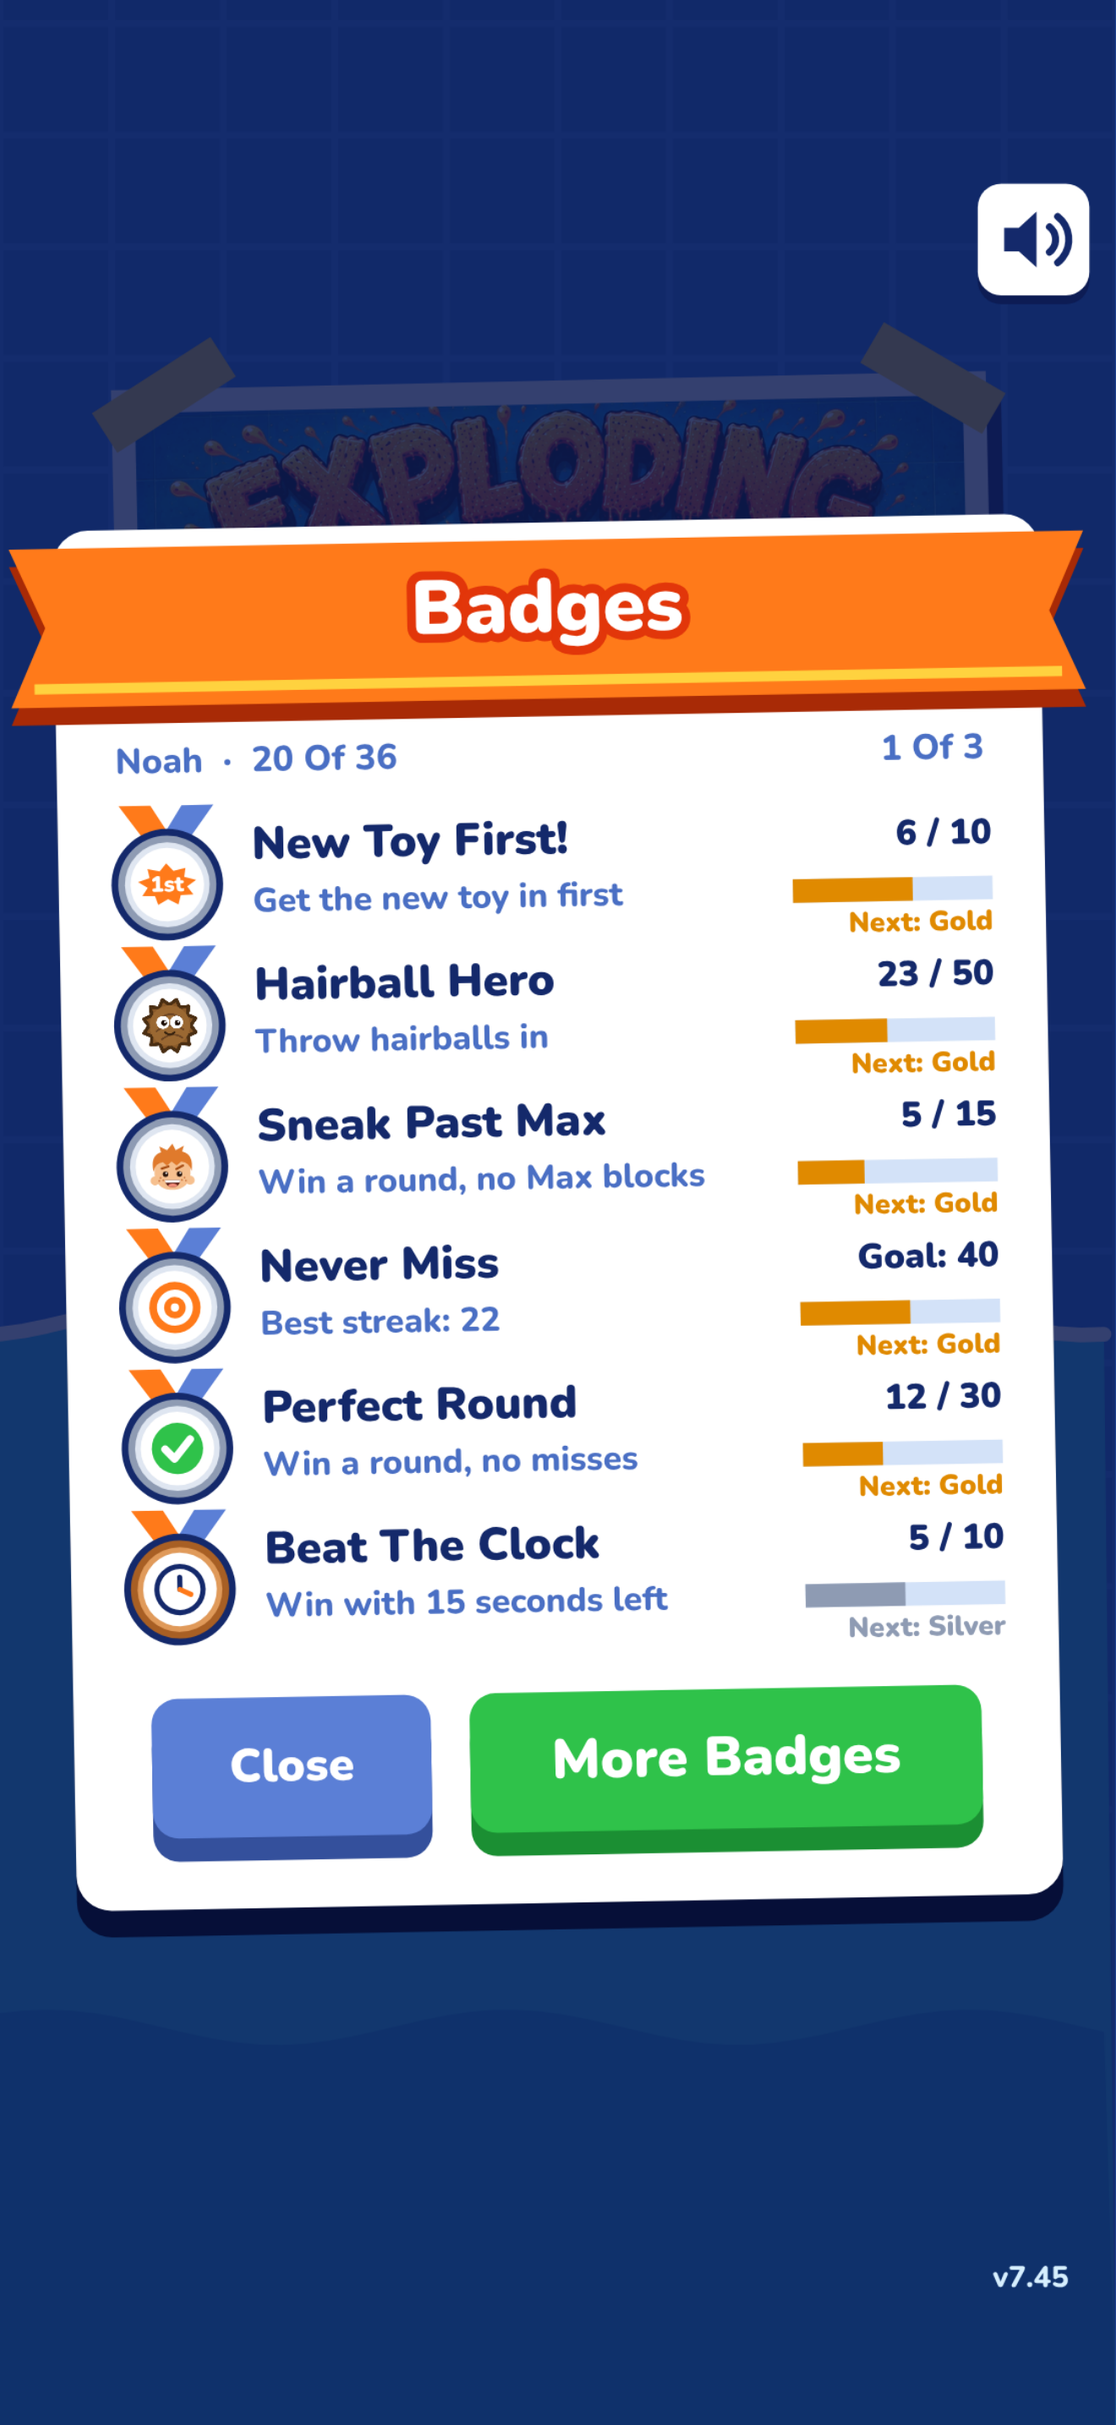
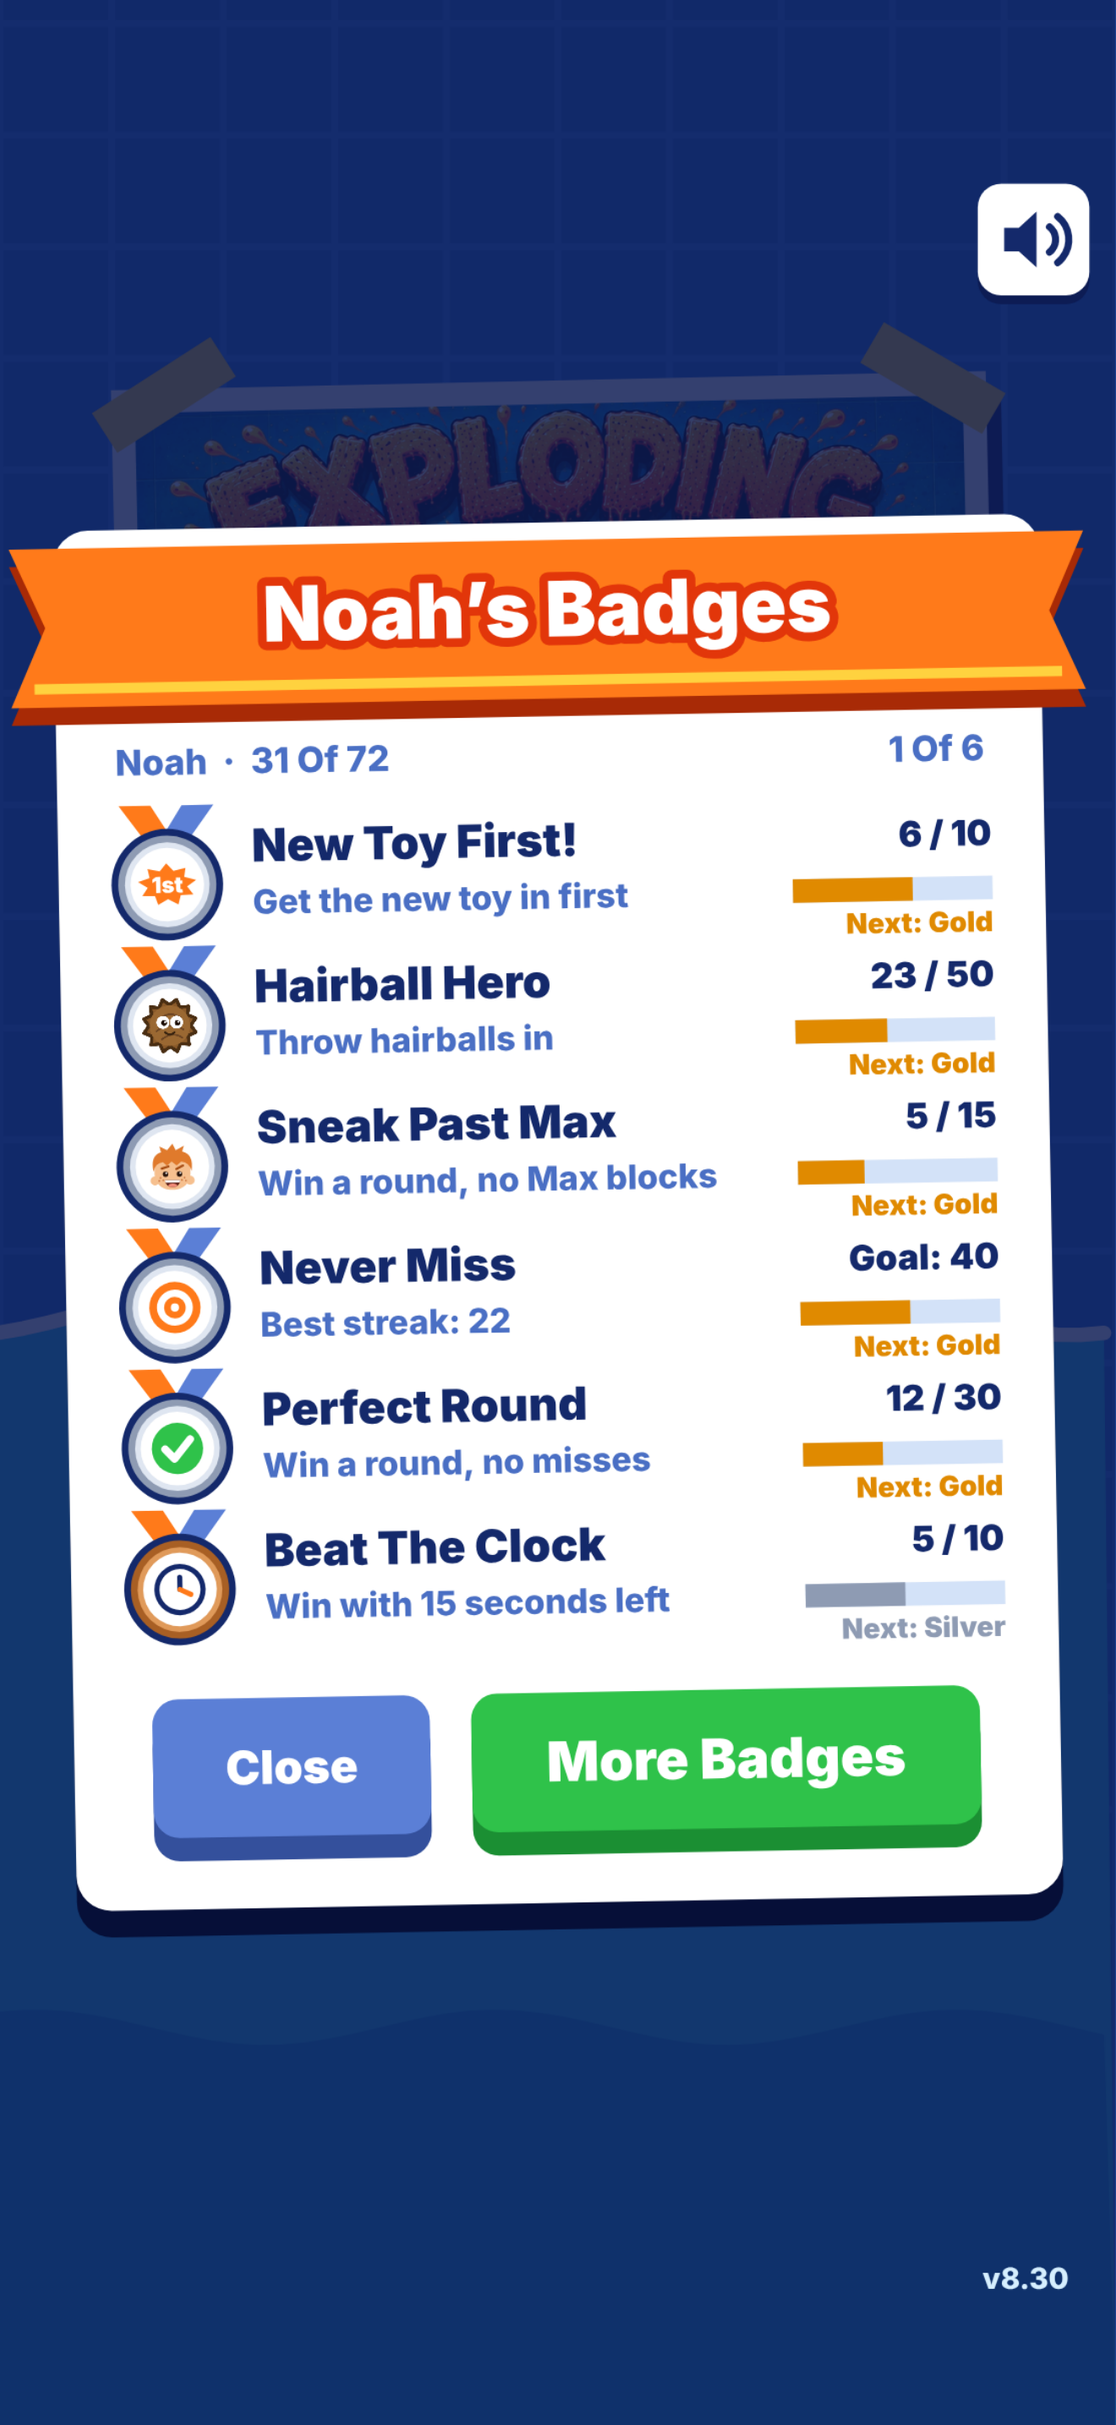
App Store 2.0: listing text, review notes, eight screenshots, listing job handles an update
Claude-Session: https://claude.ai/code/session_01TADmkriX36ZQncsrqvcFv9

diff --git a/native/scripts/screenshots.js b/native/scripts/screenshots.js
@@ -15,7 +15,9 @@ try { fontDir = path.join(path.dirname(require.resolve('@fontsource/nunito/packa
 
 const PLAYER = { cur: 0, list: [{ name: 'Noah', icon: '🦆', coins: 185, owned: ['crayon', 'whale', 'jelly', 'turtle', 'crab'],
   st: { games: 14, rounds: 62, toys: 312, misses: 40, hair: 23, blocks: 9, newFirst: 6, sneak: 5, perfect: 11, quick: 4,
-        rebounds: 8, hardRounds: 6, wins: 2, bestScore: 3400, bestStreak: 22, bestRound: 10, bestCombo: 9 } }] };
+        rebounds: 8, hardRounds: 6, wins: 2, bestScore: 3400, bestStreak: 22, bestRound: 10, bestCombo: 9,
+        mxGames: 6, mxRounds: 21, mxBlocks: 240, mxHair: 7, mxDives: 12, mxPow: 18, mxShut: 3, mxNoPow: 2, mxClose: 4, mxLate: 1, mxWins: 0, mxLet: 60, mxBestStreak: 11, mxBestScore: 41, mxBestRound: 8 },
+  gear: ['goggles', 'hat'], wear: ['goggles'], mxBest: 8, mxN: 6, mxTut: 1, nhBest: 3, pw: { splash: 2, noodle: 3, flip: 2, bucket: 1, blast: 1, bubble: 2, juice: 2, decoy: 1, rocket: 2, double: 1 } }] };
 
 function serve() {
   return http.createServer((req, res) => {
@@ -100,9 +102,28 @@ function serve() {
   await page.evaluate(() => { bdgPg = 1; bdgT0 = uiT; });
   await page.waitForTimeout(1200);
   await shot('4-badges.png');
-  await page.evaluate(() => { bdgPg = 0; openToys(); });
+  await page.evaluate(() => { bdgPg = 0; openToys(); tmGo(0); });   // My Toys > Noah's Toys > Bath Toys
   await page.waitForTimeout(1200);
   await shot('5-my-toys.png');
+
+  // 6. playing as Max (version 8): round 5, his powers along the bottom, Noah winding up a throw
+  await page.evaluate(() => { toysT0 = 0; tmPg = 0; lastPack = ['noodle', 'flip', 'juice']; startDuel(5, 'max', true); bannerT = 0; RS = 77; });
+  await page.waitForTimeout(600);
+  await page.evaluate(() => new Promise(done => { const t0 = performance.now(); (function poll() { if (charging && charging.c > .75) { duel.mx.tx = crossX(charging.o) - 34; return done(); } if (performance.now() - t0 > 9000) return done(); setTimeout(poll, 8); })(); }));
+  await page.waitForTimeout(120);
+  await shot('6-play-as-max.png');
+
+  // 7. Max's Toys: his blocking powers
+  await page.evaluate(() => { goMenu(); });
+  await page.waitForTimeout(800);
+  await page.evaluate(() => { openToys(); tmGo(3); tmSel = 'bucket'; });
+  await page.waitForTimeout(1200);
+  await shot('7-max-toys.png');
+
+  // 8. Multiplayer: the first card (two phones)
+  await page.evaluate(() => { toysT0 = 0; tmPg = 0; openMulti(); });
+  await page.waitForTimeout(1200);
+  await shot('8-multiplayer.png');
 
   if (errors.length) console.log('page errors:', errors);
   await browser.close(); server.close();

diff --git a/native/STORE-LISTING.md b/native/STORE-LISTING.md
@@ -1,7 +1,8 @@
 # App Store Listing: Exploding Volcanoes
 
-Draft written 2026-11-13 at live version v7.45. Everything here is for Derek to edit; nothing has been
-entered in App Store Connect yet. Character limits are Apple's.
+Rewritten 2026-11-26 for **version 2.0** (game v8.30: Max, Smart Max, Multiplayer, tricks, powers, outfits). The 1.0 text
+is in git history. The promotional text, description and What's New were drafted by the writing model from checked
+facts; Derek has not edited them yet. Character limits are Apple's.
 
 ## Where each thing goes in App Store Connect
 
@@ -15,13 +16,13 @@ entered in App Store Connect yet. Character limits are Apple's.
 | Support URL | `https://dnachimow-evitb.github.io/exploding-volcanos/support.html` |
 | Marketing URL (optional) | `https://dnachimow-evitb.github.io/exploding-volcanos/story.html` or leave empty |
 | Copyright | `2026 Derek Nachimow` (Apple adds the © sign; use the name you want shown) |
-| Screenshots (iPhone 6.9") | the five files in `native/screenshots/`, in number order |
-| Build | the newest one in TestFlight (build 11 = v7.45) |
+| Screenshots (iPhone 6.9") | the eight files in `native/screenshots/`, in number order |
+| Build | the newest one in TestFlight (build 26 = version 2.0, game v8.30) |
 
 ## Promotional text (170 max; can be changed any time without a new review)
 
 ```
-Splash bath toys into the volcano until it erupts! Ten rounds, 39 toys to collect, badges to earn, and up to four players. No ads. Nothing to buy.
+Now play as Max, the brother who blocks! Take on Smart Max, play a friend on two devices, dress Noah and earn 24 badges. No ads. Nothing to buy.
 ```
 
 ## Description (4000 max)
@@ -31,18 +32,39 @@ The bath is full, the toys are floating, and the volcano is hungry.
 
 Help Noah splash every bath toy into the volcano before the clock runs out. Get them all in and... KABOOM! The volcano erupts and a new toy joins the tub for the next round.
 
+Or switch sides and play as his brother Max, the one who blocks.
+
 HOW IT PLAYS
 • Push: press and hold a toy, then let go to throw it.
 • Swipe: flick a toy toward the volcano. Bank it off the wall for double points.
-• Pick Easy for helpful hints or Hard for a real challenge.
+• Pick Easy for helpful hints, Hard for a real challenge, or the new Smart Max.
 • Watch out for Max, who loves to block your throws.
 • Toss in the hairball for extra time.
+
+NEW: SMART MAX
+• Smart Max watches where you aim and swims to block
+• Noah gets three tricks to beat him: Decoy Duck, Rocket Throw and Double Throw
+
+NEW: PLAY AS MAX
+• Ten rounds where you are the brother who blocks
+• Drag to swim, tap to dive. A blocked toy is swatted across the tub
+• Blocking and diving use up his energy
+• Seven powers to collect, pack three per game: Big Splash, Pool Noodle, Flippers, Bucket, Squirt Blaster, Bubble Bath and Juice Box
+• Max School teaches every move hands-on
+
+NEW: PLAY A FRIEND
+• Two devices: one player is Noah, the other is Max
+• Start a game and send a friend the four-letter code or a link
+• Or use Quick Match to play someone who is waiting
+• Works between iPhones and the free web version of the game
+• No chat
 
 WHAT'S INSIDE
 • 10 rounds that get busier and faster
 • 39 bath toys to collect: ducks, dinosaurs, a submarine, a unicorn, a toy soldier and many more
 • Earn coins by playing and pick your own toy lineup
-• 12 badges to earn in Bronze, Silver and Gold
+• Dress Noah: 12 things to wear, like a hat, goggles, a mustache and a foam finger, bought with coins
+• 24 badges to earn, 12 for Noah and 12 for Max, each in Bronze, Silver and Gold
 • Up to 4 players on one device, each with their own toys, coins and badges
 • An original song as the soundtrack
 • A How To Play guide with pictures
@@ -52,7 +74,8 @@ MADE FOR FAMILIES
 • No in-app purchases. Coins only come from playing
 • No accounts and no sign-up
 • Nothing is collected. Progress is saved only on your device
-• Works without an internet connection
+• Single-player games work without an internet connection
+• Playing a friend needs the internet. The two devices share only the moves, each player's toy picture, Noah's outfit and, in games joined with a code, the player names. None of it is stored
 
 Made by a dad, inspired by bath time with his boys.
 ```
@@ -66,22 +89,45 @@ kids,toddler,bath,toys,family,volcano,lava,toss,throw,duck,dinosaur,splash,casua
 ```
 (95 characters)
 
-## What's New (for later updates; not asked for on version 1.0)
+## What's New (version 2.0)
 
 ```
-New toy: the Toy Soldier. Plus small fixes.
+• Play as Max: ten rounds as the brother who blocks, with seven powers to collect and Max School to learn every move
+• Smart Max: he watches where you aim, and Noah gets three new tricks to beat him
+• Play a friend on two devices with a code, a link or Quick Match
+• Dress Noah with 12 things to wear
+• 24 badges, 12 for Noah and 12 for Max
+Everything from before is still here and plays the same.
 ```
 
 ## Age rating questionnaire
 
-Answer **None** / **No** to every question: no violence (cartoon or realistic), no scary, mature, medical,
-gambling, alcohol or tobacco content, no contests, no unrestricted web access, no user-generated content,
-no chat or messaging, no social media features, no advertising. Expected result: **4+**.
+Checked against Apple's definitions on 2026-11-26 (developer.apple.com, "Age ratings values and definitions").
+The Store listing job answers **None / No** to every question. For 2.0 these are the ones to look at by hand,
+because the answers are Derek's declaration:
+
+- **Messaging and Chat** ("Users can directly communicate with one another... text, voice and/or video chat..."): **No.**
+  Nothing can be typed or said to the other player.
+- **User-Generated Content** ("the broad distribution of content created by users..."): **No**, on the reading that a
+  profile name of up to 10 letters shown to one friend in a code game is not broad distribution. This is the one
+  judgement call. Derek chose on 2026-11-26 to keep names in code games. If Apple's reviewer disagrees they may ask
+  for a way to report or block a player (guideline 1.2); the fallback is to stop sending names.
+- **Contests** ("events that allow users to compete with one another for rankings, rewards..."): **None.** A match has
+  no rankings or prizes between players.
+- **Unrestricted Web Access, Social Media, Advertising, Shared Location:** No.
+- Expected result: **4+** (Apple's 4+ tier allows even apps that do answer yes to user content or chat).
 
 ## App Privacy ("nutrition label")
 
-- "Do you or your third-party partners collect data from this app?" **No.** The label will read
-  **Data Not Collected**.
+- Apple: "'Collect' refers to transmitting data off the device in a way that allows you and/or your third-party
+  partners to access it for a period longer than what is necessary to service the transmitted request in real time."
+  Its FAQ adds that data "sent to your servers then immediately discarded after servicing the request" need not be
+  disclosed. The relay forwards match messages and stores nothing, so the answer can stay **No / Data Not Collected**.
+- Not settled by Apple's page: it also says an app with "multiplayer matching" should declare Gameplay Content, without
+  saying whether that holds when nothing is kept. If Derek prefers the cautious answer: declare **Gameplay Content**
+  and **User ID** (the profile name), used for **App Functionality**, **not linked** to the user, **not used for tracking**.
+- Guideline 5.1.4 applies because a name can be sent from a minor's device: a privacy policy is required (present,
+  updated 2026-11-26) and children's privacy laws apply. That is a legal point for Derek, not something this file settles.
 - Privacy Policy URL: as above.
 
 ## Other questions Apple asks
@@ -104,26 +150,33 @@ Rewritten 2026-11-15 to answer Apple's "Guideline 2.1 - Information Needed - New
 (points 1 to 6). Entered by the Store listing job in `notes` mode.
 
 ```
-Thank you for reviewing Exploding Volcanoes. The information requested under Guideline 2.1 is below.
+Thank you for reviewing Exploding Volcanoes 2.0.
 
-1. SCREEN RECORDING
-A screen recording made on a physical iPhone running the current iOS is attached in the App Review Information section. It starts with launching the app and shows the typical flow: the start screen, choosing a game mode (Push) and Easy, playing a round until the volcano erupts, then the How To Play, Badges and My Toys cards.
-The app has no account registration, login or account deletion (there are no accounts), no user-generated content, and no paid content or features.
+WHAT IS NEW IN 2.0
+Version 1.0 had one game: play as Noah and throw bath toys into the volcano. 2.0 adds:
+- Max: play as the brother who blocks the toys (10 rounds against the computer). From the start screen tap Max. The first time, a short tutorial called Max School runs; it can be skipped.
+- Smart Max: tap Noah, then Push or Swipe, then Smart Max (beside Easy and Hard).
+- Multiplayer: two devices, one player is Noah and the other is Max.
+- My Toys now also holds outfits for Noah and items for Max, all bought with coins earned by playing.
+There is still no login, no account, no purchase and no advertising.
 
-2. PURPOSE AND AUDIENCE
-Exploding Volcanoes is a casual arcade game for young children and their families. The player helps a boy called Noah splash bath toys into a toy volcano before a timer runs out; when every toy is in, the volcano erupts and the next round adds a new toy. There are 10 rounds, 39 toys to collect with coins earned by playing, 12 badges, and up to 4 player profiles on one device. It gives families a simple, friendly game with no ads, no purchases and no data collection. It is based on an original children's song by the developer, which plays as the soundtrack.
+HOW TO TEST MULTIPLAYER
+Multiplayer needs two devices. The second device can be another iPhone with this build, or any web browser on a computer or phone using the free web version of the same game:
+https://dnachimow-evitb.github.io/exploding-volcanos/
+1. On the iPhone: tap Multiplayer, Play A Person, Start A Game, choose Max or Noah. A four-letter code appears.
+2. On the second device: tap Multiplayer, Play A Person, Join A Game, enter the code.
+3. Both screens show "Connected". The player who started taps Play. Each player taps through one or two short cards, then the match runs for under two minutes.
+Quick Match (pairing with whoever else is waiting) works the same way: choose opposite sides on the two devices and tap Quick Match on both. With only one device waiting, it keeps looking and can be cancelled.
+If the other player leaves, the computer takes over their side.
 
-3. HOW TO USE THE APP
-No login or setup is needed. Launch the app, tap Push (press and hold a toy, then let go to throw it) or Swipe (flick a toy toward the volcano), then tap Easy, then "Let's Splash!". Get all the toys into the volcano before the clock runs out. "How To Play" on the start screen explains the game with pictures. "Badges" shows achievements and "My Toys" is where coins earned in play are spent on new toys. Nothing is locked behind a purchase or an account.
+WHAT MULTIPLAYER SENDS
+The two devices exchange messages through a relay we run on Cloudflare Workers. The relay only forwards messages between the two devices in a match and stores nothing. The messages contain the moves of the game, each player's chosen toy picture, the outfit on the character, and, in games joined with a code, each player's profile name (letters only, at most 10, typed by the user on their own device). In Quick Match, names are not sent or shown. There is no chat, no messaging, and no way to type or send anything to the other player. Profile names are not posted anywhere or shown to anyone except the one other player in a code game.
 
-4. EXTERNAL SERVICES
-None. All game code, artwork and music are inside the app. It makes no network requests and uses no data providers, authentication services, payment processors, analytics, advertising or AI services. Progress is saved only on the device.
+EXTERNAL SERVICES
+Only the relay described above (Cloudflare Workers), used only while a Multiplayer game is open. No analytics, advertising, authentication, payment or AI services. The single-player games make no network requests and work offline. Progress is saved only on the device.
 
-5. REGIONAL DIFFERENCES
-None. The app works the same way in every region. It is in English only.
-
-6. REGULATED INDUSTRY AND THIRD-PARTY MATERIAL
-The app is not in a regulated industry. It contains no third-party protected material: the game, the artwork and the song "Exploding Volcanoes in the Bathtub" are the developer's own original work.
+OTHER POINTS
+The app has no account registration or deletion (there are no accounts) and no paid content. It works the same in every region and is in English only. It is not in a regulated industry. The game, artwork and the song are the developer's own original work.
 ```
 
 Contact details for App Review (name, phone, email) are entered by Derek and are not shown publicly.

diff --git a/native/APP-STORE.md b/native/APP-STORE.md
@@ -110,6 +110,23 @@ Keep this file current: tick items off and add decisions as they are made.
       (a new app can take up to a day to show in every country and in search).
       The 6-hourly status check was switched off after this.
 
+### 5. Version 2.0 (game version 8), started 2026-11-26
+- [x] Version 8 published to the website (v8.30) on 2026-11-26. The app packages whatever `index.html` loads, now
+      `game-fable-v8.js`.
+- [x] `MARKETING_VERSION` 2.0. **Build 26 uploaded to TestFlight 2026-11-26** (game v8.30).
+- [x] Derek's decisions (2026-11-26): keep player names in code games; keep Quick Match in the app.
+- [x] Apple's rules read on 2026-11-26 (privacy "collect", the age-rating questions, guidelines 1.2, 1.3, 5.1.4,
+      review notes): summary and the judgement calls are in `STORE-LISTING.md`.
+- [x] Listing rewritten for 2.0 in `STORE-LISTING.md` (promotional text, description, What's New, review notes with
+      how to test Multiplayer on two devices). Eight screenshots (three new: playing as Max, Max's Toys, Multiplayer).
+- [x] The Store listing job opens version 2.0 by itself when only a live version exists, and sends What's New.
+- [ ] (Derek) Try build 26 from TestFlight: the three games, and a Multiplayer match between the app and the
+      website (the app talks to the relay from a different address than the website does; this is the one thing
+      that could not be checked from here). Also "Send It" on the invite card (the share sheet inside the app).
+- [ ] Run the Store listing job in `fill` mode (enters the draft; it never submits).
+- [ ] (Derek) On Apple's site: read the listing, check App Privacy and the age rating, attach a screen recording if
+      asked, then Add for Review / Submit.
+
 ## Decisions
 Made by Derek on 2026-11-12:
 - **Individual** developer account (the store shows his legal name as the seller).
